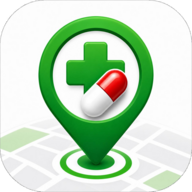
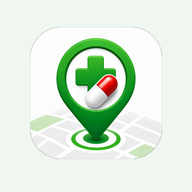
Add files via upload

diff --git a/index.html b/index.html
@@ -10,8 +10,8 @@
   <meta name="apple-mobile-web-app-status-bar-style" content="black-translucent" />
   <meta name="apple-mobile-web-app-title" content="Pharis" />
   <link rel="manifest" href="manifest.json" />
-  <link rel="icon" href="icon.svg" type="image/svg+xml" />
-  <link rel="apple-touch-icon" href="icon.svg" />
+  <link rel="icon" href="icon-192.png" type="image/png" />
+  <link rel="apple-touch-icon" href="apple-touch-icon.png" />
   <script src="https://cdn.jsdelivr.net/npm/react@18.3.1/umd/react.production.min.js" crossorigin></script>
   <script src="https://cdn.jsdelivr.net/npm/react-dom@18.3.1/umd/react-dom.production.min.js" crossorigin></script>
   <script src="https://cdn.jsdelivr.net/npm/@babel/standalone@7.25.6/babel.min.js" crossorigin></script>
@@ -2024,7 +2024,7 @@ out center tags;`;
             <div className="flex items-center justify-between">
               <div className="flex items-center gap-2.5">
                 <div className="w-8 h-8 rounded-lg bg-brand-800 flex items-center justify-center shadow-md overflow-hidden">
-                  <img src="icon.svg" alt="Pharis" className="w-8 h-8" width="32" height="32" />
+                  <img src="icon-192.png" alt="Pharis" className="w-8 h-8" width="32" height="32" />
                 </div>
                 <div>
                   <h1 className="text-lg font-bold tracking-tight text-brand-400 leading-tight" dir="ltr">Pharis</h1>
